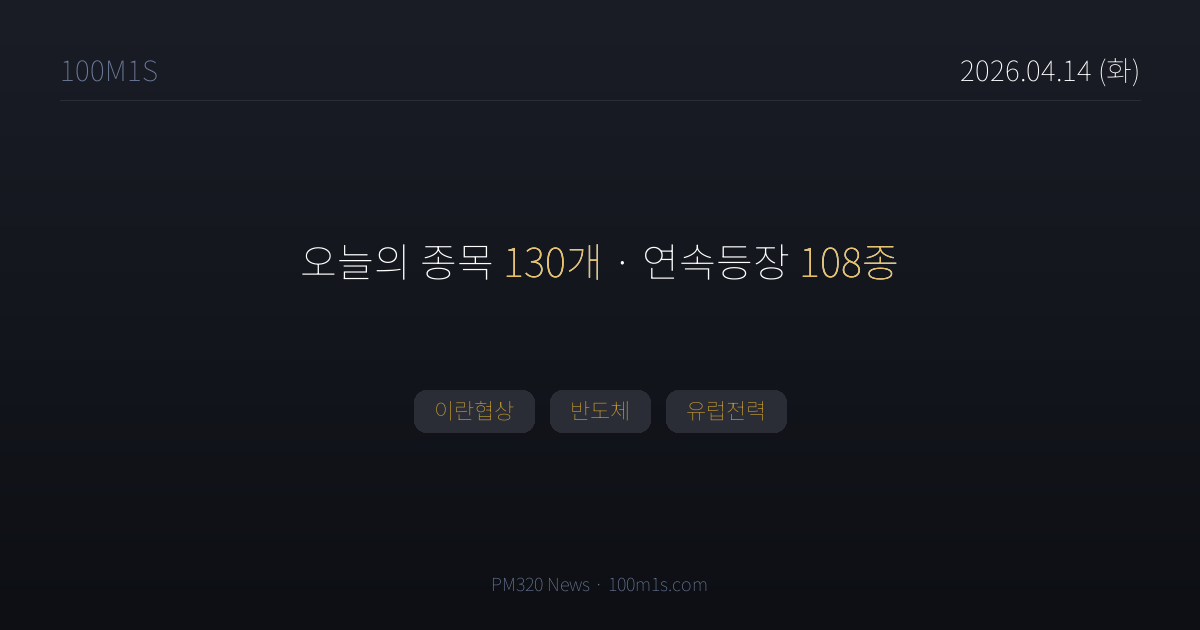
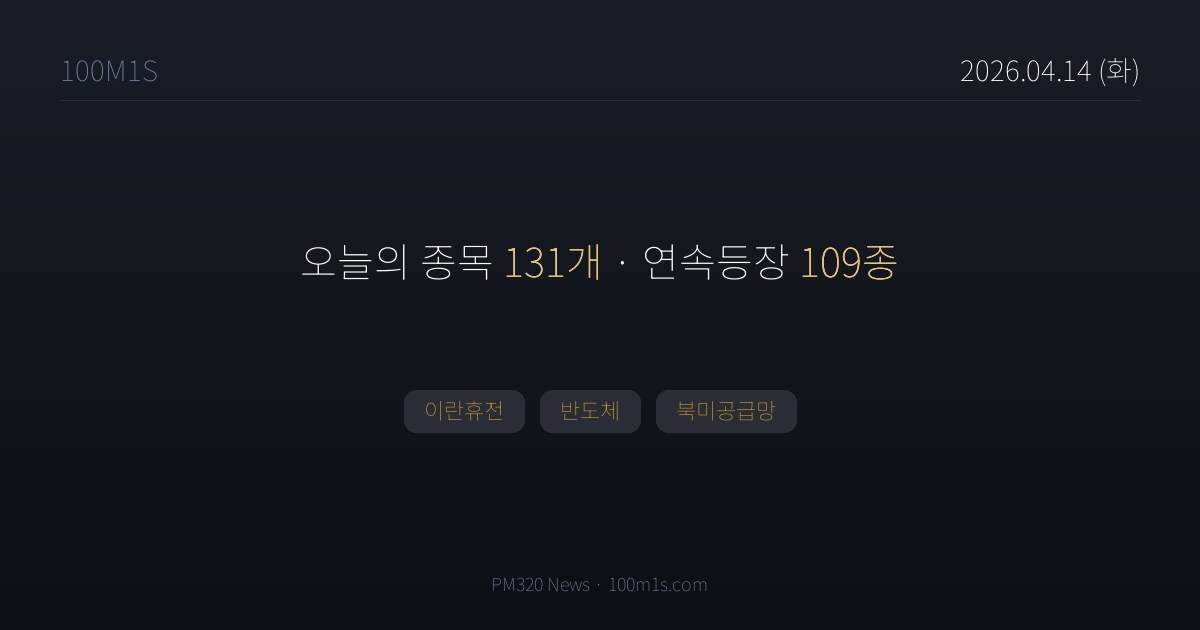
chore(news): 2026-04-14T11:10 pipeline

Changed region(s): [[0.3392, 0.6032, 0.6783, 0.6937], [0.6783, 0.3921, 0.74, 0.4222], [0.4625, 0.3921, 0.4933, 0.4222]]

diff --git a/news/2026-04-14.html b/news/2026-04-14.html
@@ -3,8 +3,8 @@
 <head>
 <meta charset="UTF-8">
 <title>4월 14일 (화) 뉴스 — 100M1S</title>
-<meta property="og:title" content="4월 14일 (화) · 종목 130개">
-<meta property="og:description" content="이란협상, 반도체, 유럽전력">
+<meta property="og:title" content="4월 14일 (화) · 종목 131개">
+<meta property="og:description" content="이란휴전, 반도체, 북미공급망">
 <meta property="og:image" content="https://100m1s.com/og/2026-04-14.png">
 <meta property="og:image:width" content="1200">
 <meta property="og:image:height" content="630">
